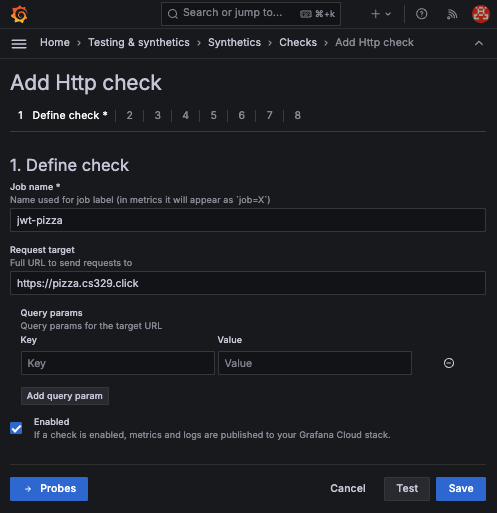
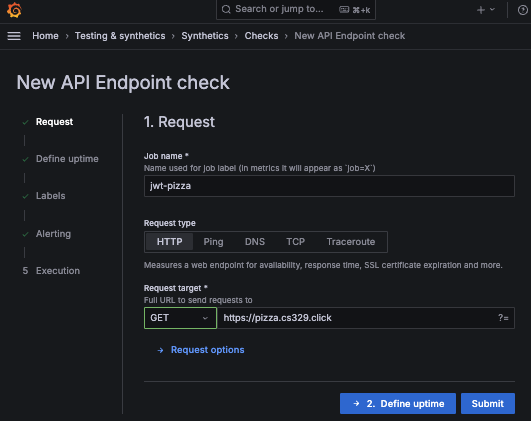
fix(synthetic testing) instruction to match current UI

diff --git a/instruction/syntheticTesting/syntheticTesting.md b/instruction/syntheticTesting/syntheticTesting.md
@@ -35,9 +35,12 @@ This includes graphs that show the latency of requests, locations that requests 
 To create a Grafana synthetic test do the following:
 
 1. Open the Grafana Cloud Dashboard.
-1. Open the home menu and click on `Testing & synthetics` and then `Synthetics`.
-1. Click on `Add new check`.
-1. Select the check type. These represent the network request times that you can make. Select `HTTP` in order to make a single request that assures that your application resource is available.
+1. Open the home menu and click on `Testing & synthetics` > `Synthetics` > `Checks`.
+1. Click on `New check`.
+1. Select the check type. These represent the types of network requests that you can make. Select `Create API Endpoint check` in order to make a single request that assures that your application resource is available.
+
+   ![Check type](checkType.png)
+
 1. Define the check.
 
    1. Provide `jwt-pizza` as the **Job name**.
@@ -45,27 +48,21 @@ To create a Grafana synthetic test do the following:
 
       ⚠ **Note**: This will require that your application is currently running. If it is not, then go and deploy it now.
 
-   1. Check `Enabled` so that metrics for the tests will be stored in you Grafana data source (i.e. `grafanacloud-*-prom`) under metrics that begin with `probe_`. This is useful if you want to create your own visualizations.
-
    ![Define check](defineCheck.png)
 
-1. Click the `→ Probes` button to define the frequency and location where request originate.
-
-   1. Choose the `Probe locations` as **London**, **Seoul**, and **Atlanta**.
-   1. Set the `Frequency` to one minute.
-   1. Set the `Timeout` to 3 seconds.
-
-   ![Probe step](probeStep.png)
-
-1. Click `→ HTTP settings` and review the options. This allows you to make any type of HTTP request. We will not set any of these at this time.
-1. Click `→ TLS config` and review the options. This allows you to specify the expected web certificate information. We will not set any of these at this time.
-1. Click `→ Authentication` and review the options. This allows you to provide authentication tokens that the application requires. We will not set any of these at this time.
-1. Click `→ Validation` and review the options. This allows you to define what response is expected from the HTTP request.
+1. Click `→ Define uptime` from the left side menu. This allows you to define what response is expected from the HTTP request.
 
    1. Choose **200** as the `Valid status code`.
    1. Choose **Probe fails if SSL is not present** as the `SSL options`.
 
-   ![Validation step](validationStep.png)
+   ![alt text](defineUptimeStep.png)
+
+1. Click the `→ Execution` from the left side menu to define the frequency and location where request originate.
+
+   1. Choose the `Probe locations` as **London**, **Seoul**, and **Atlanta**.
+   1. Set the `Frequency` to one minute.
+
+   ![Execution step](executionStep.png)
 
 1. Press the `Test` button. After a few seconds this should return a successful response.
 
@@ -93,7 +90,7 @@ In a later section you will learn how to define the rules for triggering alerts 
 
 Grafana Cloud provides you with a limited number of free synthetic testing checks. Once you have experimented with this functionality, you want to reduce the number of checks that you make so that it falls within their free tier.
 
-To reduce the number of checks, edit the check that you just created and navigate to the `Probe options` view. Change the frequency to 60 minutes and press `Save`.
+To reduce the number of checks, edit the check that you just created and navigate to the `Execution` view. Change the frequency to 60 minutes and press `Save`.
 
 ## ☑ Assignment
 
